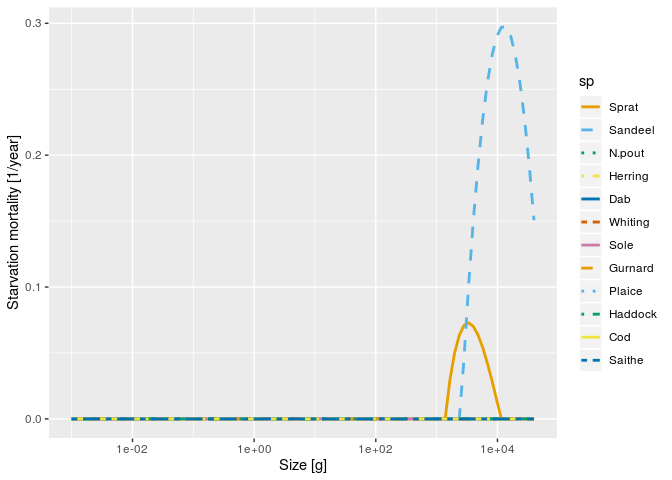
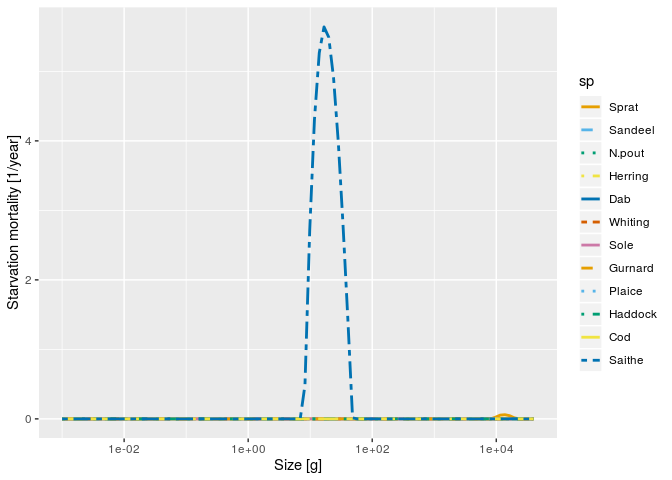
Changed the example in README so that there is actually starvation mortality at sizes smaller than the maximum size.

diff --git a/README.md b/README.md
@@ -20,8 +20,15 @@ install.packages("mizerStarvation")
 ```
 -->
 
-You can install the development version of mizerStarvation from GitHub
-with
+First you need a recent development version of the mizer package
+(version \>= 1.0.1.9001). You can install this from GitHub with
+
+``` r
+devtools::install_github("sizespectrum/mizer")
+```
+
+Then you can install the development version of mizerStarvation from
+GitHub with
 
 ``` r
 devtools::install_github("sizespectrum/mizerStarvation")
@@ -35,9 +42,13 @@ the North Sea model that comes with the mizer package.
 ``` r
 library(mizer)
 library(mizerStarvation)
+library(tidyverse)
 library(ggplot2)
 params <- NS_params
+plotSpectra(params, power = 2)
 ```
+
+<img src="man/figures/README-unnamed-chunk-2-1.png" width="100%" />
 
 We add starvation mortality
 
@@ -45,11 +56,11 @@ We add starvation mortality
 params <- setStarvation(NS_params, 10)
 ```
 
-We increase metabolic loss artificially to induce starvation
+We decrease plankton availability to create some starvation
 
 ``` r
-params@species_params$ks <- params@species_params$ks * 1.3
-params <- setMetab(params)
+params@cc_pp[params@w_full > 0.1] <- 0
+params@initial_n_pp[params@w_full > 0.1] <- 0
 ```
 
 We can calculate the starvation mortality for each species as a function
@@ -59,7 +70,8 @@ of size with `getStarvMort()`:
 starv_mort <- getStarvMort(params)
 ```
 
-This returns an array that we can plot
+This returns a matrix. For plotting we turn this into a data frame with
+`melt()` and send it to ggplot:
 
 ``` r
 ggplot(melt(starv_mort)) +
@@ -73,25 +85,12 @@ ggplot(melt(starv_mort)) +
 
 <img src="man/figures/README-unnamed-chunk-6-1.png" width="100%" />
 
-We find the new steady state and plot it
+Of course now Saithe will go extinct, not only because of the starvation
+mortality but also because it stops growing before maturity.
 
 ``` r
-params <- steady(params)
-plotSpectra(params, power = 2, ylim = c(1e4, NA))
+sim <- project(params, t_max = 30)
+plotBiomass(sim)
 ```
 
 <img src="man/figures/README-unnamed-chunk-7-1.png" width="100%" />
-
-Even in the steady state there is still some starvation mortality
-
-``` r
-ggplot(melt(getStarvMort(params))) +
-    geom_line(aes(x = w, y = value, colour = sp, linetype = sp), size = 1) +
-    scale_x_log10() +
-    xlab("Size [g]") +
-    ylab("Starvation mortality [1/year]") +
-    scale_colour_manual(values = params@linecolour) +
-    scale_linetype_manual(values = params@linetype)
-```
-
-<img src="man/figures/README-unnamed-chunk-8-1.png" width="100%" />
